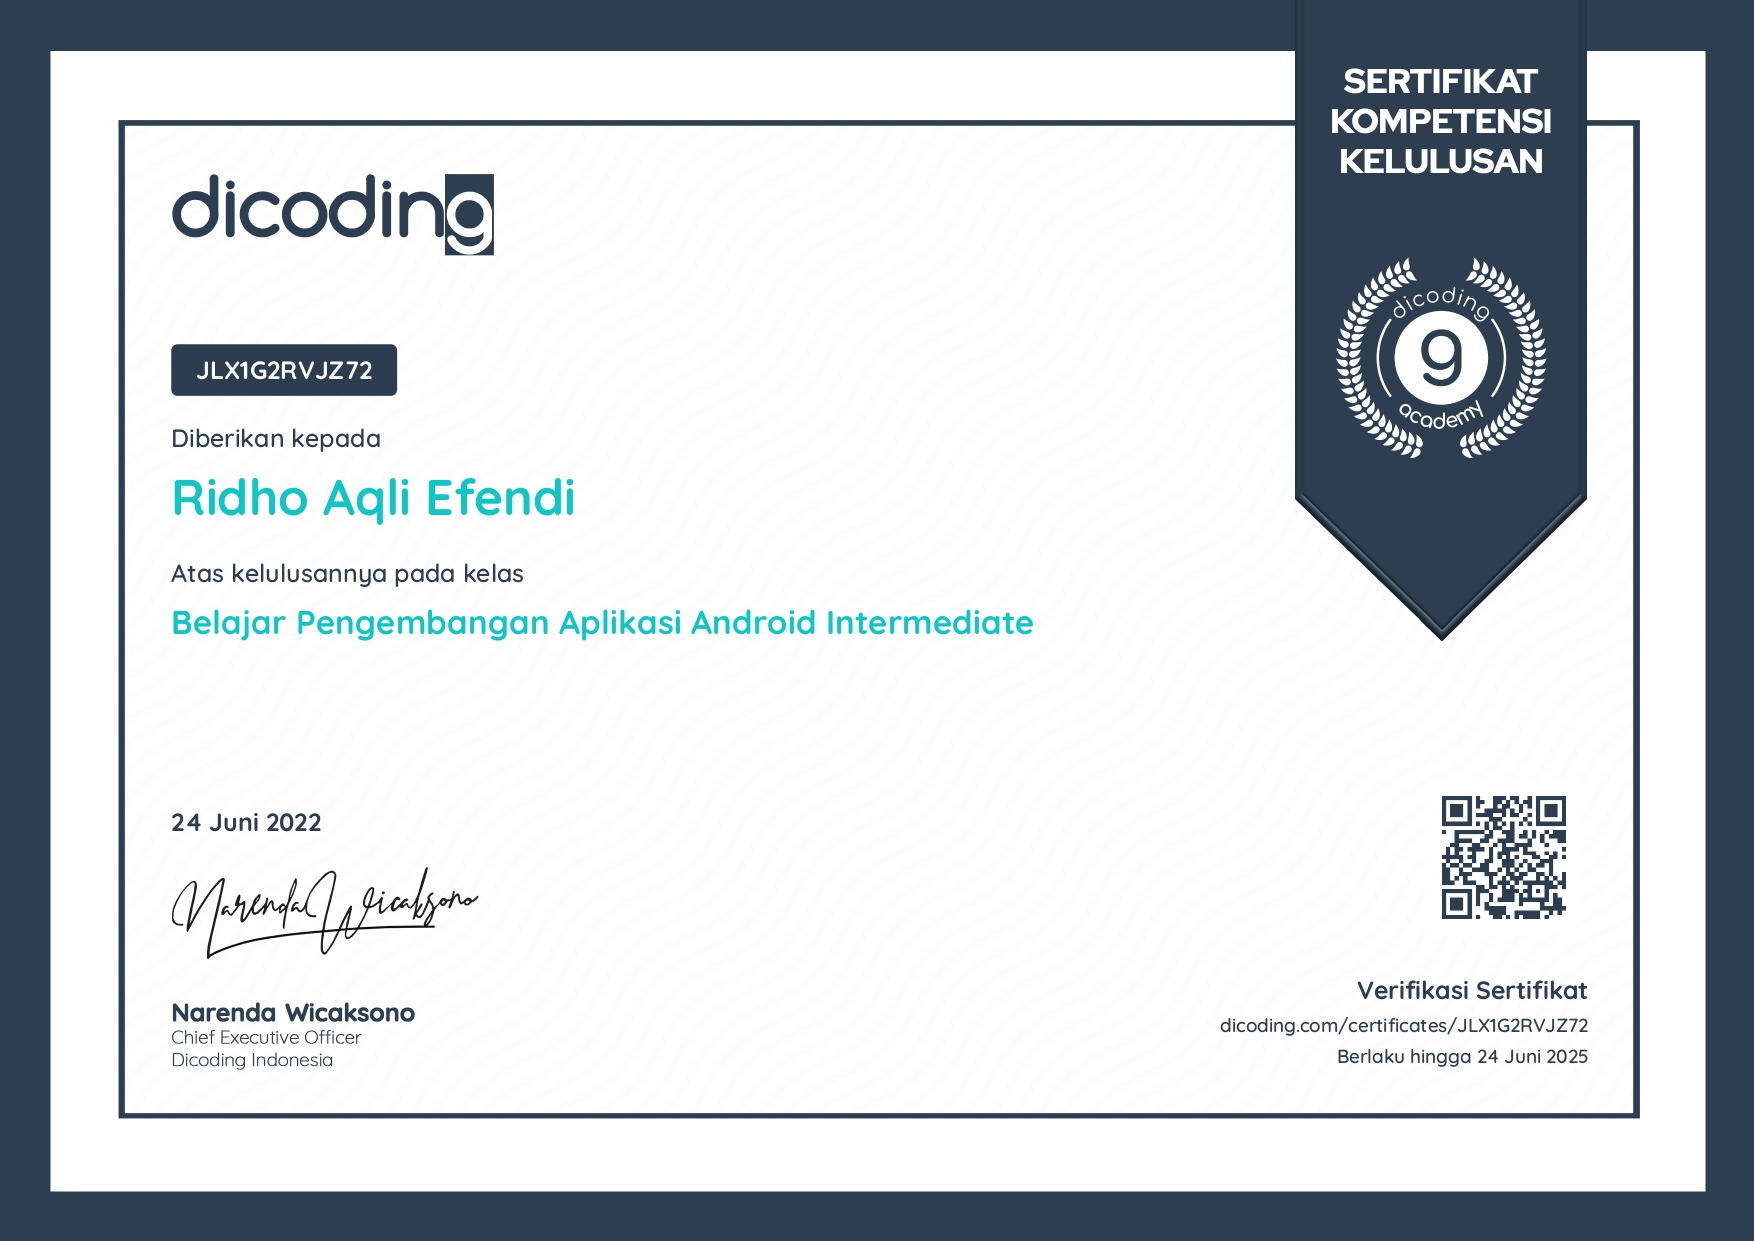
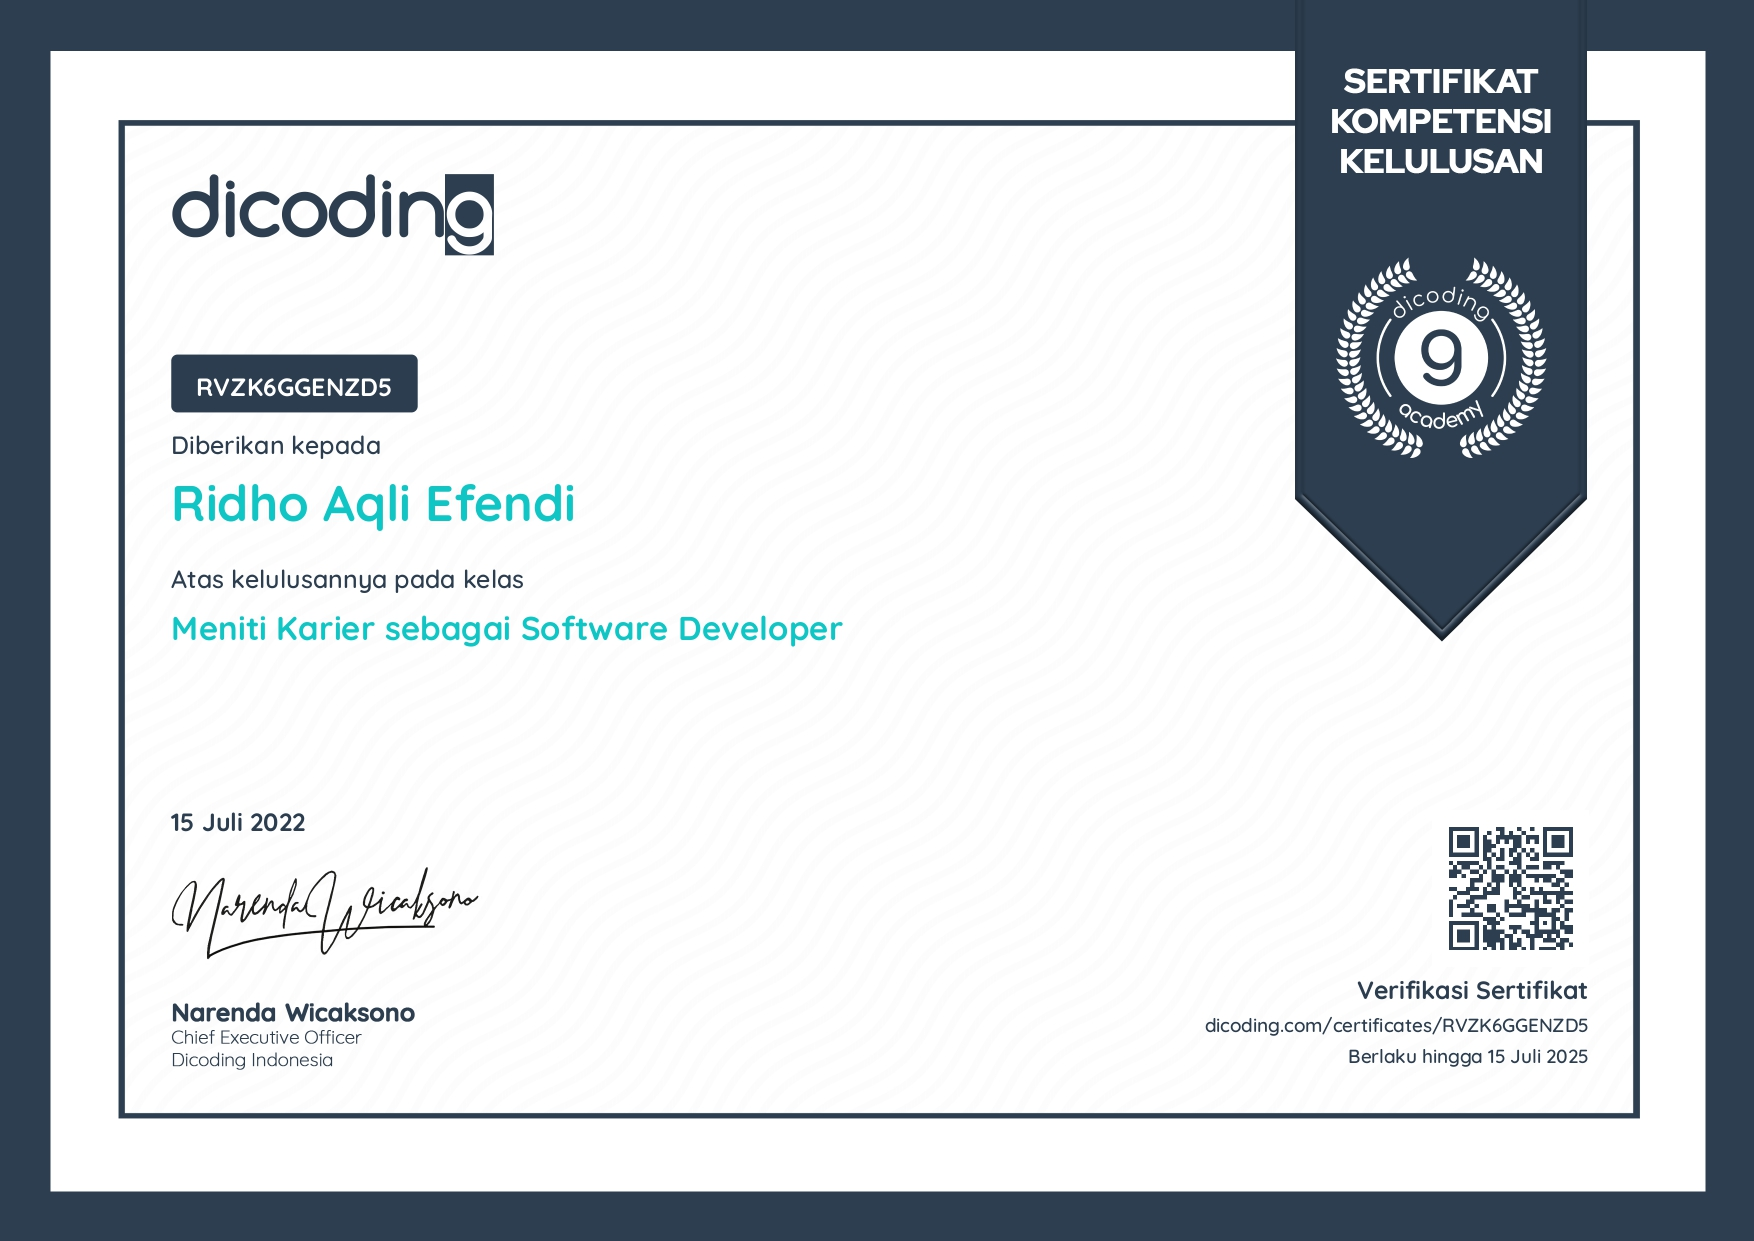
compress some images

diff --git a/index.html b/index.html
@@ -53,24 +53,13 @@
           <li><a class="nav-link scrollto" href="#about">About</a></li>
           <!-- <li><a class="nav-link scrollto" href="#services">Services</a></li> -->
           <li><a class="nav-link scrollto " href="#work">Portofolio</a></li>
-          <li><a class="nav-link scrollto " href="#blog">Certificates</a></li>
-          <!-- <li class="dropdown"><a href="#"><span>Drop Down</span> <i class="bi bi-chevron-down"></i></a> -->
-          <!-- <ul>
-              <li><a href="#">Drop Down 1</a></li>
-              <li class="dropdown"><a href="#"><span>Deep Drop Down</span> <i class="bi bi-chevron-right"></i></a>
-                <ul>
-                  <li><a href="#">Deep Drop Down 1</a></li>
-                  <li><a href="#">Deep Drop Down 2</a></li>
-                  <li><a href="#">Deep Drop Down 3</a></li>
-                  <li><a href="#">Deep Drop Down 4</a></li>
-                  <li><a href="#">Deep Drop Down 5</a></li>
-                </ul>
-              </li>
-              <li><a href="#">Drop Down 2</a></li>
-              <li><a href="#">Drop Down 3</a></li>
-              <li><a href="#">Drop Down 4</a></li>
+          <li class="dropdown"><a href="#"><span>Others</span> <i class="bi bi-chevron-down"></i></a>
+            <ul>
+              <li><a href="#achieve">My achieve</a></li>
+              <li><a href="#skills">Skills</a></li>
+              <li><a href="#blog">Certificates</a></li>
             </ul>
-          </li> -->
+          </li>
           <li>
             <a class="btn btn-primary btn js-scroll px-4 py-2" href="#contact" role="button">CONTACT</a>
           </li>
@@ -227,9 +216,9 @@
 
           <div class="col-lg-4 col-md-6 col-sm-12 portfolio-item filter-web">
             <div class="card work-box">
-              <a href="assets/img/work-wordpress-1.png" data-gallery="portfolioGallery" class="portfolio-lightbox">
+              <a href="assets/img/work-wordpress-1.jpg" data-gallery="portfolioGallery" class="portfolio-lightbox">
                 <div class="work-img">
-                  <img src="assets/img/work-wordpress-1.png" alt="" class="img-fluid">
+                  <img src="assets/img/work-wordpress-1.jpg" alt="" class="img-fluid">
                 </div>
               </a>
               <div class="work-content">
@@ -405,7 +394,8 @@
     </section>
     <!-- End Portfolio Section -->
 
-    <section id="achieve" class="achieve p-5">
+
+    <section id="achieve" class="achieve sect-pt6">
 
       <div class="row">
         <div class="col-sm-12">
@@ -436,7 +426,7 @@
 
           <div class="col-md-6 row justify-content-start">
 
-            <div class="card achieve-card p-3" style="text-align: center;" data-aos="fade-up-left" data-aos-delay="500"
+            <div class="card achieve-card p-3" style="text-align: center;" data-aos="fade-up-left"
               data-aos-duration="500">
               <img src="assets/img/client.png" class="card-img-top" alt="client" style="width: 128px; margin: auto;">
               <div class="card-body">
@@ -451,7 +441,8 @@
     </section>
 
     <!-- ======= Skills Section ======= -->
-    <div class="testimonials paralax-mf bg-image" style="background-image: url(assets/img/overlay.jpg);">
+    <div id="skills" class="testimonials sect-pt6 paralax-mf bg-image"
+      style="background-image: url(assets/img/overlay.jpg);">
       <div class="container">
 
         <div class="title-box text-center">
@@ -473,7 +464,7 @@
               </div>
             </div>
           </div>
-          <div class="col-6 col-lg-3" data-aos="zoom-out" data-aos-duration="500" data-aos-delay="200">
+          <div class="col-6 col-lg-3" data-aos="zoom-out" data-aos-duration="500">
             <div class="testimonial-box">
               <div class="author-test">
                 <img src="assets/img/skills/react-logo.png" alt="" class="rounded-circle b-shadow-a">
@@ -481,7 +472,7 @@
               </div>
             </div>
           </div>
-          <div class="col-6 col-lg-3" data-aos="zoom-out" data-aos-duration="500" data-aos-delay="400">
+          <div class="col-6 col-lg-3" data-aos="zoom-out" data-aos-duration="500">
             <div class="testimonial-box">
               <div class="author-test">
                 <img src="assets/img/skills/laravel-logo.png" alt="" class="rounded-circle b-shadow-a">
@@ -489,7 +480,7 @@
               </div>
             </div>
           </div>
-          <div class="col-6 col-lg-3" data-aos="zoom-out" data-aos-duration="500" data-aos-delay="600">
+          <div class="col-6 col-lg-3" data-aos="zoom-out" data-aos-duration="500">
             <div class="testimonial-box">
               <div class="author-test">
                 <img src="assets/img/skills/mysql-logo.png" alt="" class="rounded-circle b-shadow-a">
@@ -504,7 +495,7 @@
     <!-- End Skills Section -->
 
     <!-- ======= Sertif Section ======= -->
-    <section id="blog" class="blog-mf sect-pt4 route">
+    <section id="blog" class="blog-mf sect-pt6 route">
       <div class="container">
         <div class="row">
           <div class="col-sm-12">
@@ -565,7 +556,7 @@
                     <h6 class="category">Dicoding</h6>
                   </div>
                 </div>
-                <h3 class="card-title">Android Intermediate</h3>
+                <h3 class="card-title">Software Developer Carier</h3>
                 <p class="card-description">
                   I got this certificate from Bangkit Academy Program.
                 </p>

diff --git a/wordpress-project.html b/wordpress-project.html
@@ -83,7 +83,7 @@
               <div class="swiper-wrapper align-items-center">
 
                 <div class="swiper-slide">
-                  <img src="assets/img/work-wordpress-1.png" alt="">
+                  <img src="assets/img/work-wordpress-1.jpg" alt="">
                 </div>
 
                 <div class="swiper-slide">

diff --git a/assets/css/style.css b/assets/css/style.css
@@ -145,6 +145,10 @@ a:hover {
   padding-top: 4rem;
 }
 
+.sect-pt6 {
+  padding-top: 6rem;
+}
+
 .sect-mt4 {
   margin-top: 4rem;
 }
@@ -1236,6 +1240,7 @@ a:hover {
 --------------------------------------------------------------*/
 .achieve {
   overflow: hidden;
+  margin-bottom: 5em;
 }
 
 .achieve .card {
